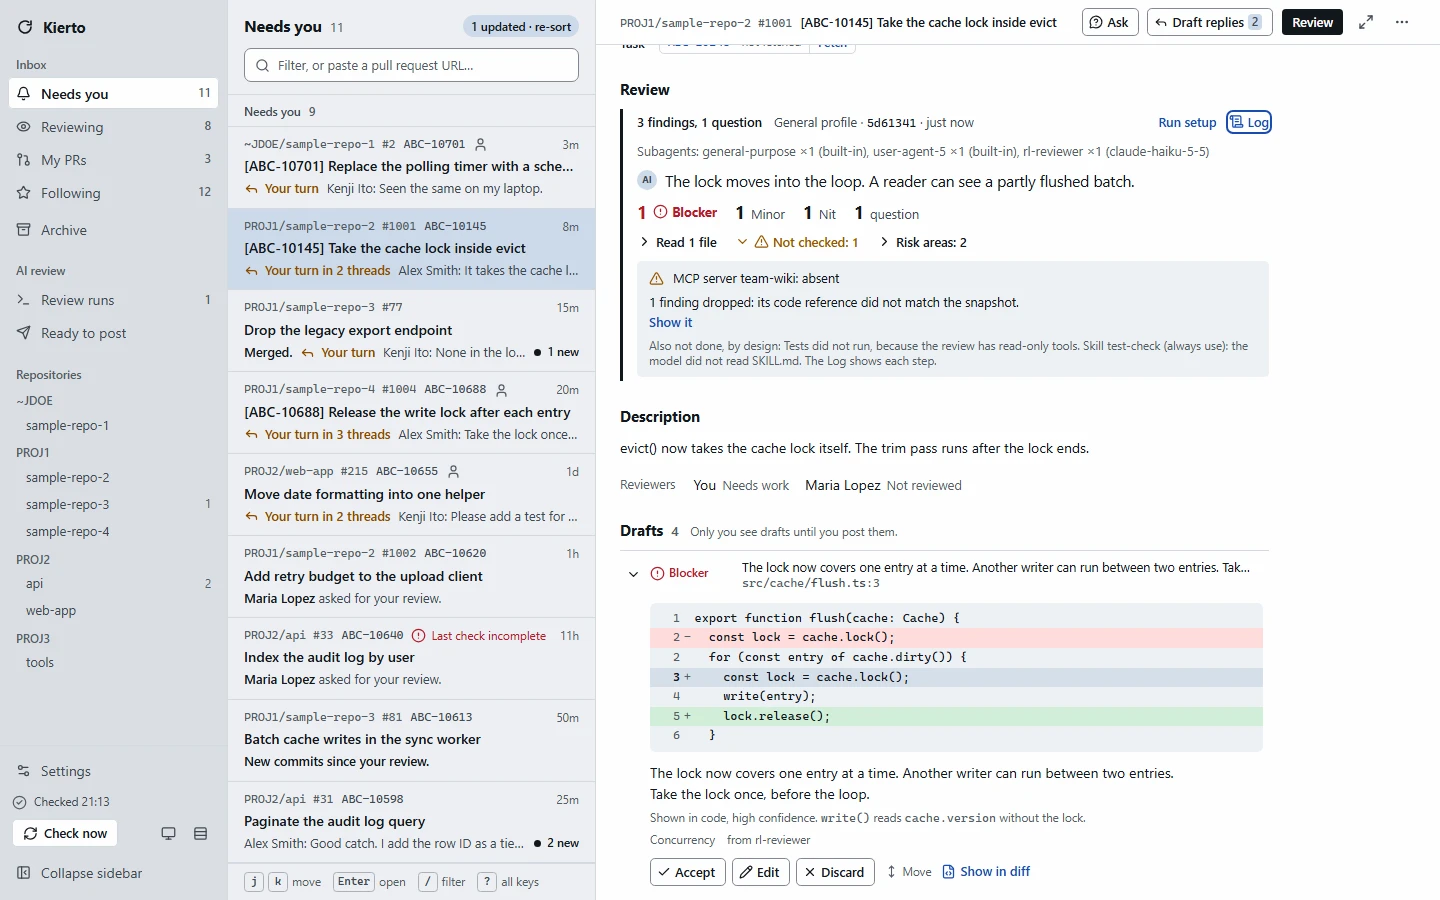
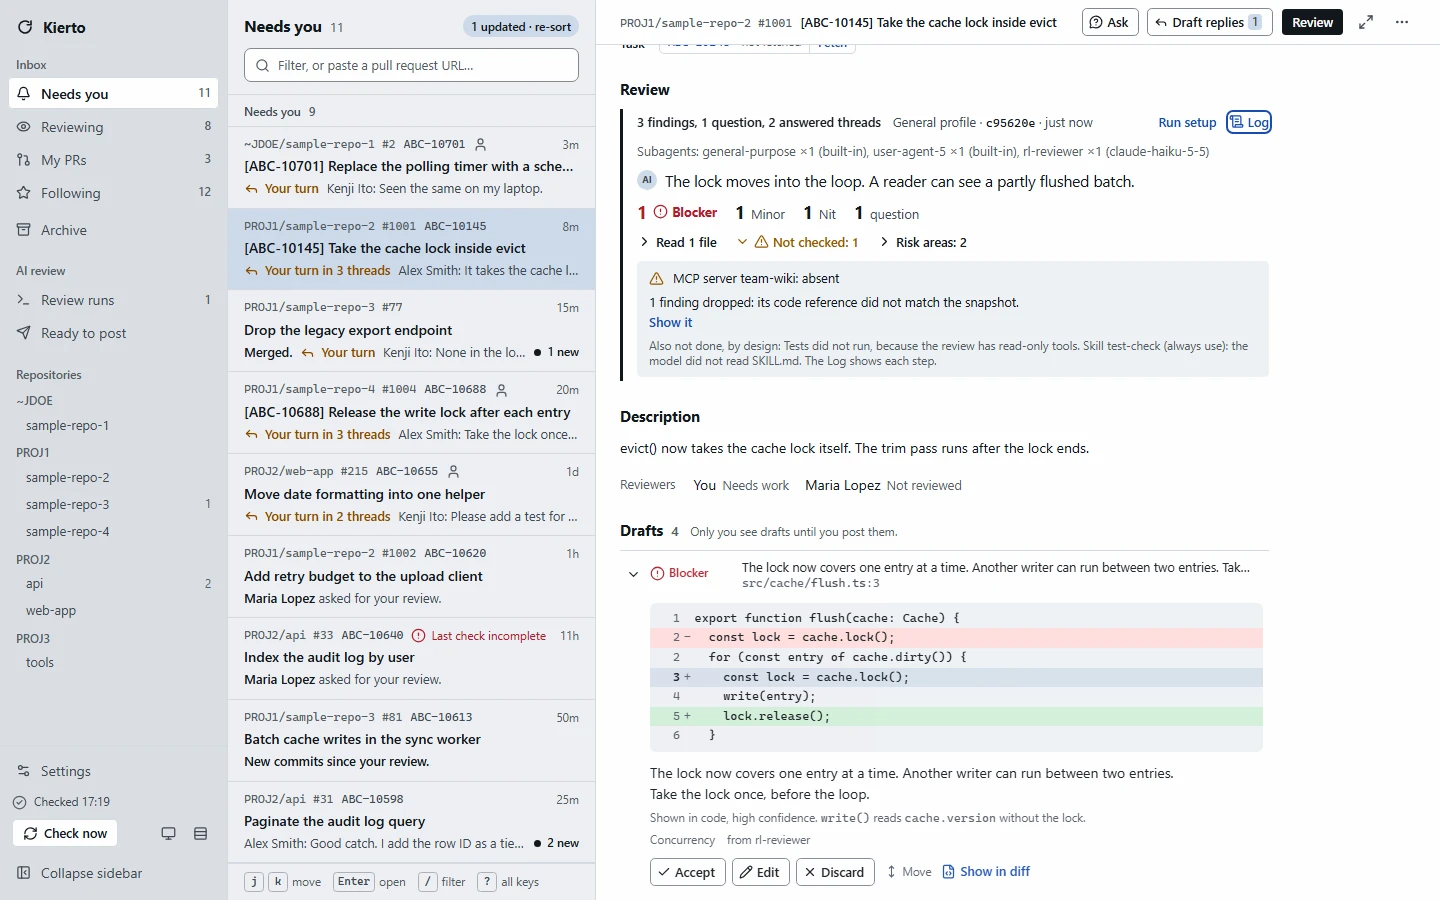
Show answered questions in the demo and add smoke steps for the new reply features
- The demo review of the cache-lock PR finds two answered threads: one settled with the resolve box ticked, one follow-up.
- smoke-r3.md part M checks answered questions, out-of-date drafts, revisions, and the MCP redirect rule with the real server and CLI.
- README screenshots show the new run line and thread counts.

diff --git a/scripts/demo.ts b/scripts/demo.ts
@@ -81,7 +81,27 @@ writeFileSync(join(claudeConfig, ".claude.json"), JSON.stringify({ mcpServers: {
 writeFileSync(join(claudeConfig, "CLAUDE.md"), "Name each lock in a comment where it is taken.\n");
 process.env.CLAUDE_CONFIG_DIR = claudeConfig;
 
-runner.write({ fixture: claudeStream(claudeDir, "tree", "claude/b9-wp8-flags.jsonl", REVIEW_RESULT), fix: FIX });
+// The answers to the questions that an earlier run of PR 1001 posted in threads 1100 and 1150 (seeded below). A review of another
+// PR drops both entries into its coverage, because those threads hold no question of the user there.
+const ANSWERED = [
+  {
+    thread: 1100,
+    question: null,
+    outcome: "settled",
+    evidence: 'Message 1101: "It takes the cache lock itself now."',
+    reply: "Thanks, clear.",
+    finding: null,
+  },
+  {
+    thread: 1150,
+    question: null,
+    outcome: "followup",
+    evidence: 'Message 1151: "The timer can start it, though."',
+    reply: "Thanks. When the timer starts trim() during evict(), which of the two takes the lock first?",
+    finding: null,
+  },
+];
+runner.write({ fixture: claudeStream(claudeDir, "tree", "claude/b9-wp8-flags.jsonl", REVIEW_RESULT), fix: FIX, answered: ANSWERED });
 const SOURCE_PRS = [1001, 1002, 31, 210, 212, 77, 74, 33, 215, 9, 5, 2, 1004];
 const remote = await reviewRemote(claudeDir, { ...Object.fromEntries(SOURCE_PRS.map((id) => [id, "source" as const])), 81: "next" });
 
@@ -397,6 +417,9 @@ const activities = new Map<Pr, () => S.Activity[]>([
           "  }",
         ],
       });
+      // A posted question of an earlier review run (seeded below). The answer is partial, so a review drafts a follow-up question.
+      t = thread(t, 1150, me, 298, "Does trim() still run while evict() holds the lock?");
+      t = reply(t, 1150, 1151, kenji, 290, "Usually not. The timer can start it, though.");
       t = thread(t, 1140, maria, 275, "Add a test for an empty cache before this merges.", { task: "OPEN" });
       t = thread(t, 1110, maria, 280, "Typo in the comment above trim().", { path: "src/cache/trim.ts", line: 8, resolved: true });
       t = reply(t, 1110, 1111, alex, 270, "Fixed.");
@@ -657,6 +680,43 @@ db?.query("INSERT INTO repo_clone (project, repo, path, updated_at) VALUES ('PRO
 });
 phase = 2;
 await sync.syncNow();
+
+// An earlier review run of PR 1001 posted one question in each of threads 1100 and 1150 (docs/plans/thread-outcome.md section 9).
+// The other person answered both, so the next review drafts the replies of ANSWERED.
+const evictPr = db?.query("SELECT id FROM pull_request WHERE project = 'PROJ1' AND pr_id = 1001").get() as { id: number } | null;
+if (db && evictPr) {
+  const { id: run } = db
+    .query(
+      `INSERT INTO review_run (pr, profile, note, idem_key, source_head, target_head, status, kind, summary_json, started_at, finished_at)
+      VALUES ($pr, 'general', '', 'demo-earlier', $head, $target, 'completed', 'review', $summary, $at, $at) RETURNING id`,
+    )
+    .get({
+      pr: evictPr.id,
+      head: HEAD_A,
+      target: remote.target,
+      summary: JSON.stringify({
+        summary: "Two questions about the lock.",
+        risks: [],
+        coverage: { read: [], skipped: [], unavailable: [], notChecked: [] },
+        dropped: [],
+      }),
+      at: min(320),
+    }) as { id: number };
+  for (const [root, kind, text] of [
+    [1100, "inline", "Does evict() still need the caller to hold the lock?"],
+    [1150, "general", "Does trim() still run while evict() holds the lock?"],
+  ] as const) {
+    const { id } = db
+      .query(
+        "INSERT INTO review_item (run, kind, payload_json, body, status) VALUES ($run, 'question', $payload, $text, 'posted') RETURNING id",
+      )
+      .get({ run, payload: JSON.stringify({ text, why: "The lock order decides the fix." }), text }) as { id: number };
+    db.query(
+      `INSERT INTO post (pr, run, kind, idem_key, body, destination_json, items_json, state, remote_id, remote_version, created_at, updated_at)
+      VALUES ($pr, $run, $kind, $key, $text, '{}', $items, 'confirmed', $root, 0, $at, $at)`,
+    ).run({ pr: evictPr.id, run, kind, key: `demo-post-${root}`, text, items: JSON.stringify([{ id, revision: 0 }]), root, at: min(320) });
+  }
+}
 
 const server = startServer({
   port: PORT,

diff --git a/docs/smoke-r3.md b/docs/smoke-r3.md
@@ -1,6 +1,6 @@
 # Release 3 manual smoke test: Fix it, Jira Markdown, and Jira attachments
 
-This test checks the Release 3 features against a real Bitbucket Server, a real Jira server, your own git clone, and the real `claude` CLI. The user runs it. The automated suites use fixtures, the fake CLI, the fake Bitbucket, the fake Jira, and temp clones only. The results fill the "Release 3 (not run)" rows in integration-check.md: U21 to U29, B11, B12, B15, and B16. Part I checks the prompt features that came after Release 3. Part L checks thread resolve and fills U62 to U67.
+This test checks the Release 3 features against a real Bitbucket Server, a real Jira server, your own git clone, and the real `claude` CLI. The user runs it. The automated suites use fixtures, the fake CLI, the fake Bitbucket, the fake Jira, and temp clones only. The results fill the "Release 3 (not run)" rows in integration-check.md: U21 to U29, B11, B12, B15, and B16. Part I checks the prompt features that came after Release 3. Part L checks thread resolve and fills U62 to U67. Part M checks answered questions, out-of-date reply drafts, revisions, the session steps, and MCP redirects.
 
 ## Rules
 
@@ -11,7 +11,7 @@ This test checks the Release 3 features against a real Bitbucket Server, a real 
 - Use a new, empty data folder. Never use the data folder of your daily instance.
 - The app never pushes. Each push in this test is your own `git push`.
 - Do not copy tokens, host names, code, comment text, issue text, or file names into files, issues, or chat. Record payload shapes (key names and types), counts, and tag names only.
-- Expect about nineteen runs on your Claude subscription quota: eight in the gate, two in part A, one in part B, one interactive session in part D, one in part E, one in part F, one in part I, two in part J, in part K one interactive session and two session runs, and two in part L. A session run loads the full history of the session, so it can cost more than a review.
+- Expect about twenty-nine runs on your Claude subscription quota: eight in the gate, two in part A, one in part B, one interactive session in part D, one in part E, one in part F, one in part I, two in part J, in part K one interactive session and two session runs, two in part L, and ten in part M. A session run loads the full history of the session, so it can cost more than a review.
 - Part I sends your project instructions to Claude. Turn on the global CLAUDE.md only when it holds nothing that the approval does not cover.
 - In this document, `<BITBUCKET_URL>` is the base URL of the Bitbucket server, `<JIRA_URL>` is the base URL of the Jira server, `<TEST_PR_URL>` is the URL of the test pull request, `<KEY>` is a Jira issue key that the test pull request names, and `<CLONE>` is the absolute path of your test clone.
 
@@ -210,6 +210,55 @@ Gate run: steps 1 and 2 ran on 2026-10-20 against Bitbucket Data Center 9.x. int
 11. Optional, one run: post one finding of a review run as an inline comment. Push a commit that fixes it. Click "Check now", then "Review changes since". If the run finds the finding fixed, expect a "Resolve proposal" under its thread with the box ticked.
 12. Delete the "Resolve gate." comment by hand if the test branch needs it.
 
+## M. Answered questions, out-of-date drafts, revisions, session steps, and MCP redirects
+
+Part M checks commits b7013d1, 4a0c12f, 3398e26, 2b89d52, and e4f671a. "(real CLI)" marks a step that runs `claude`. The other steps need no run. Tick one box per step: `[x] pass` or `[x] fail`, with a short reason for a fail. Use only the test pull request. Part M posts review comments there, and the second user answers them.
+
+Preparation for steps 1 to 12:
+
+1. (real CLI) Press r on the test pull request and start a General review. Wait for the end. Accept two questions and three findings. If the run gave fewer, edit other drafts into questions or findings with your own text. Press p and post them. Expect one general comment with both questions and one inline comment for each finding. [ ] pass [ ] fail
+2. Ask the second user to answer as follows. General comment: answer question 1 fully, answer question 2 only in part. Finding F1: "Yes, this is on purpose." with a reason. Finding F2: an answer that shows a real defect, for example "Right, this also leaks when the call throws." Finding F3: no answer. Click "Check now". [ ] pass [ ] fail
+
+Answered questions in a review (b7013d1):
+
+3. (real CLI) Press r and start a General review. Wait for the end. Expect the run line to end with "N answered threads", with N = 3 (the general comment, F1, and F2). Expect no schema error in the run row. [ ] pass [ ] fail
+4. Press 3. Click "Show raw output". Expect the key `answered` in the structured output, with one entry per answered question. Expect each entry to have `thread`, `question`, `outcome`, `evidence`, `reply`, and `finding`. Record the count of entries and the outcome of each. Record no text. [ ] pass [ ] fail
+5. Open the F1 thread. Expect a reply draft "from the review" with the chip "Settled", a short thanks, and "Resolve after posting" ticked, because you started the thread. Expect "Claude proposes it:" with a quote of the answer as proof. [ ] pass [ ] fail
+6. Open the general comment thread. Expect one reply draft for both questions, with the chip "Follow-up question". Expect the reply to ask the open part of question 2. Expect "Resolve after posting" not ticked. [ ] pass [ ] fail
+7. Open the F2 thread. Expect a new finding in Drafts for the defect, and a reply draft in the F2 thread that points to it. Expect the box not ticked. [ ] pass [ ] fail
+8. Open the F3 thread. Expect no reply draft. [ ] pass [ ] fail
+9. (real CLI) Edit the F1 draft and change one word. Start one more General review. Expect your edited F1 draft to stay unchanged. Expect no second draft in the F1 thread. [ ] pass [ ] fail
+10. (real CLI) Open the Review menu and pick Explain. Start it and wait for the end. Expect no "answered threads" in its run line and no new reply draft. Press 3. Expect no Read of `context/questions.md` in the log. [ ] pass [ ] fail
+11. (real CLI) Push one small commit to the source branch yourself. Ask the second user to answer F3 fully. Click "Check now", then "Review changes since". Wait for the end. Expect the run line to count 1 answered thread, and a "Settled" draft with the box ticked in the F3 thread. [ ] pass [ ] fail
+12. Accept the F1 draft. Press p. Expect the line "Then resolves the thread." Click Post. Expect the reply first and the thread resolved in Bitbucket. Discard the other answer drafts and the new finding. [ ] pass [ ] fail
+
+No Accept and no Edit on an out-of-date reply draft (4a0c12f):
+
+13. (real CLI) Ask the second user for a new comment that asks for a change. Click "Check now", then "Draft replies". Wait for the end. Do not touch the draft. Ask the second user to add one more message in that thread. Click "Check now". [ ] pass [ ] fail
+14. Expect the draft card to show "New messages since this draft." with "Draft again" and "Reply to the newest as is". Expect no Accept button and no Edit button. Expect Discard. [ ] pass [ ] fail
+15. Focus the draft. Press a, then e. Expect the hint "New messages arrived after this draft. Draft it again, or reply to the newest as is." for each key. Expect no change to the draft. [ ] pass [ ] fail
+16. Open the browser developer tools on the network tab. Reload the page. Find the response of `reply-drafts` for the test pull request. Note the `id` and the `revision` of the out-of-date draft. In the console, run `fetch("/api/items/<id>", { method: "POST", headers: { "Content-Type": "application/json", "X-RL-Session": document.querySelector('meta[name="rl-session"]').content }, body: JSON.stringify({ action: "accept", revision: <revision> }) }).then(async (r) => console.log(r.status, await r.text()))`. Expect status 409 and the text "New messages arrived after this draft. Draft it again, or reply to the newest as is." Run it again with `action: "edit"` and `body: "x"`. Expect 409 again. Do not copy the session token anywhere. [ ] pass [ ] fail
+17. Accept a current draft in another thread. Ask the second user to add one more message in that thread. Click "Check now". Expect the card with "Undo accept" and no Edit. Click "Undo accept". Expect the draft back as not accepted, still with no Accept and no Edit. [ ] pass [ ] fail
+
+Reply to the newest as is, and revise instead of replace (3398e26):
+
+18. On the out-of-date draft of step 14, click "Reply to the newest as is". Expect no new run in the run line. Expect the same text, now as a reply to the newest message, and Accept and Edit back. [ ] pass [ ] fail
+19. Edit that draft. Ask the second user to add one more message. Click "Check now". Expect "New messages since this draft." and the button "Revise my reply" instead of "Draft again". [ ] pass [ ] fail
+20. (real CLI) Click "Revise my reply". Wait for the end. Expect your draft unchanged and a revision under it as a word diff: struck text leaves, underlined text comes in. Expect your points and tone to stay. Expect "Use revision" and "Keep mine". [ ] pass [ ] fail
+21. (real CLI) Click "Keep mine". Expect the revision gone and your exact text. Accept the draft. Repeat steps 19 and 20. Click "Keep mine". Expect your text still accepted. [ ] pass [ ] fail
+22. (real CLI) Repeat steps 19 and 20 once more. Click "Use revision". Expect the revised text as the draft, not accepted. [ ] pass [ ] fail
+23. (real CLI) Edit the draft again. Ask the second user to add one more message. Click "Check now", then the bulk "Draft replies". Wait for the end. Expect your edited text unchanged, with the revision under it. Expect no draft that replaces your text. Discard the drafts of steps 13 to 23. [ ] pass [ ] fail
+
+Copy for your session (2b89d52):
+
+24. Run part K steps 4 and 5 with a build that has commit 2b89d52. Record their result here. Expect the six steps under "What to do", one anchor line per inline item and no code quote, and the label "Kierto's AI view (may be wrong)". Expect the session to ask before a push, a post, or a resolve. [ ] pass [ ] fail
+
+MCP redirect of a user-added server (e4f671a):
+
+25. Use an MCP server that needs no secret header, of type `http` or `sse`. Add it to your Claude config (`.claude.json`, key `mcpServers`) as `smoke-direct` with its own URL. Open Settings > Review profiles > General > MCP servers > Choose. Open the tools of `smoke-direct`. Expect its tool list. [ ] pass [ ] fail
+26. Start a redirector on this machine: `bun -e "Bun.serve({ hostname: '127.0.0.1', port: 7601, fetch: () => Response.redirect('<URL of the server of step 25>', 307) })"`. Add a second entry `smoke-redirect` of the same type with the URL `http://127.0.0.1:7601/mcp`. Reload Settings. Open the tools of `smoke-redirect`. Expect "Could not list the tools of smoke-redirect: <reason>." and no tool list. Record the reason. [ ] pass [ ] fail
+27. Stop the redirector with Ctrl+C. Remove both entries from your Claude config. Reload Settings. Expect neither server in the list. [ ] pass [ ] fail
+
 ## H. Record
 
 - The build commit from the startup line.
@@ -220,4 +269,5 @@ Gate run: steps 1 and 2 ran on 2026-10-20 against Bitbucket Data Center 9.x. int
 - From part J: the reason that the fix run gave for T9 in step 4.
 - From part K: the item count and the size of the copy, the count of entries per verdict, and the count of skipped rows. From steps 14 to 17: the count of listed sessions, the size and the token estimate of the picked session, the token count of the session run (hint of its time), and the count of new transcripts. Record no text and no path.
 - From part L: the gate lines of steps 2 and 4. Update U62 to U67 in integration-check.md.
+- From part M: the count and the outcomes of the `answered` entries of step 4, the answered-thread counts of steps 3 and 11, and the redirect reason of step 26. Record no text.
 - B11, B12, B15, and B16, the tag names from E5, and the shapes from F1. From part I: the languages of step 4, the severity counts of step 6, and any coverage line from step 5. Update the "Release 3 (not run)" rows in integration-check.md.
